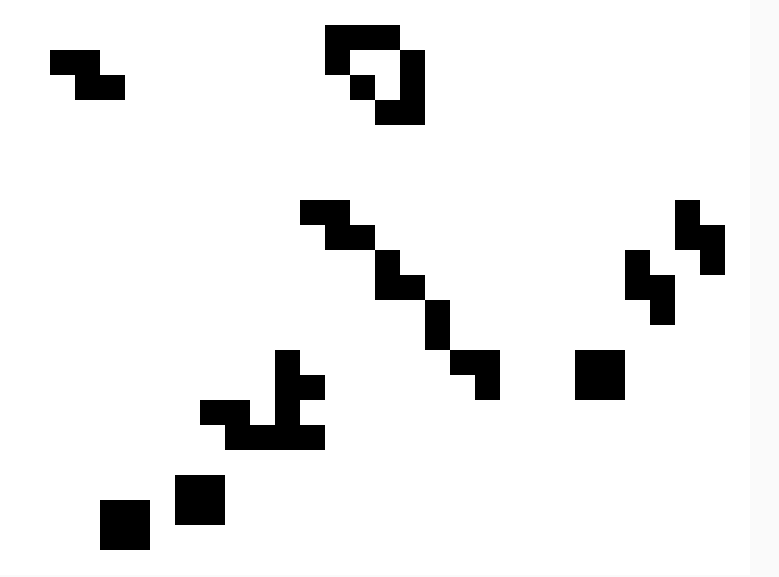
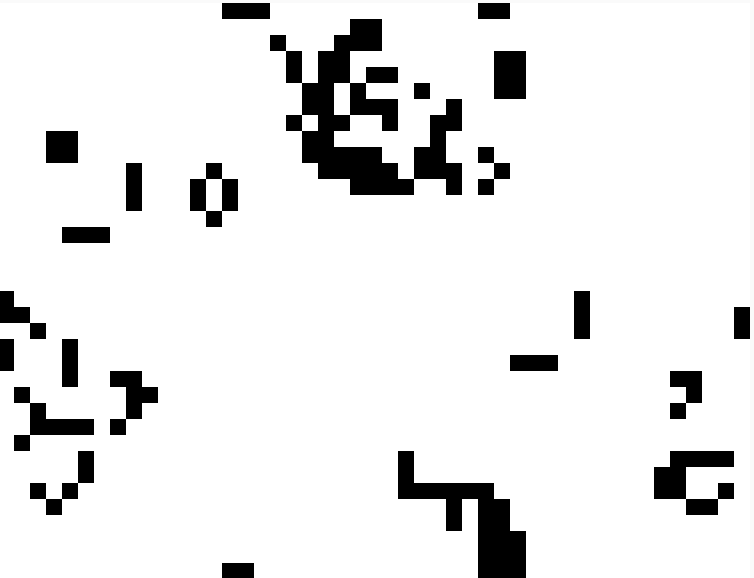
immigration

diff --git a/front/src/objects/cellular_automaton/Cells.js b/front/src/objects/cellular_automaton/Cells.js
@@ -1,0 +1,83 @@
+import LifeGameCell from "./lifeGameCell";
+import { random } from "../Utils";
+
+export default class Cells {
+  constructor(width, height, game) {
+    this.width = width;
+    this.height = height;
+    this.radius = 16;
+
+    this.frame = 10;
+    this.hz = 60 / this.frame;
+    this.frame_cpt = 0;
+
+    var cells = [];
+    for (var i = 0; i < height; i++) {
+      cells[i] = new Array(width);
+    }
+    switch (game) {
+      case 0:
+        for (var y = 0; y < height; y++) {
+          for (var x = 0; x < width; x++) {
+            var cell = new LifeGameCell(x, y, random(0, 1), 16);
+            cells[y][x] = cell;
+          }
+        }
+
+        break;
+      default:
+    }
+    this.cells = cells;
+  }
+
+  // var frame_cpt = 0;
+  // var e = this;
+
+  loop(ctx) {
+    if (this.frame_cpt == 0) {
+      ctx.fillStyle = "rgb(255, 255, 255)";
+      ctx.fillRect(0, 0, this.width, this.height);
+
+      for (var y = 0; y < this.height; y++) {
+        for (var x = 0; x < this.width; x++) {
+          // Rafraichir
+          this.cells[y][x].refresh();
+          // Dessiner
+          this.cells[y][x].draw(ctx);
+        }
+      }
+
+      // Trouver les voisins
+      var vx, vy;
+      for (y = 0; y < this.height; y++) {
+        for (x = 0; x < this.width; x++) {
+          for (var voisin_y = y - 1; voisin_y <= y + 1; voisin_y++) {
+            vy = voisin_y;
+            if (voisin_y == -1) vy = this.height - 1;
+            if (voisin_y == this.height) vy = 0;
+            for (var voisin_x = x - 1; voisin_x <= x + 1; voisin_x++) {
+              vx = voisin_x;
+              if (voisin_x == -1) vx = this.width - 1;
+              if (voisin_x == this.width) vx = 0;
+
+              if (x == vx && y == vy) continue;
+
+              this.cells[y][x].addNeighbor(this.cells[vy][vx]);
+            }
+          }
+        }
+      }
+
+      // Updater;
+      for (y = 0; y < this.height; y++) {
+        for (x = 0; x < this.width; x++) {
+          this.cells[y][x].changeState();
+        }
+      }
+    }
+    this.frame_cpt++;
+    if (this.frame_cpt >= this.hz) this.frame_cpt = 0;
+
+    this.pid = requestAnimationFrame(this.loop);
+  }
+}

diff --git a/front/src/components/home/ProjectList.vue b/front/src/components/home/ProjectList.vue
@@ -1,39 +1,48 @@
 <template>
   <div>
-    <v-row>
-      <v-col cols="12">
-        <v-row>
-          <v-col offset="1">
-            <h1 class="display-1">CNN</h1>
-          </v-col>
-        </v-row>
-        <v-row class="sm3 xs12" justify="center">
+    <v-container>
+      <v-row>
+        <h1 class="display-1">CNN</h1>
+      </v-row>
+      <v-row justify="start">
+        <v-col cols="auto">
           <ProjectCard
             title="Guess my number"
             image="guess_my_number.png"
             routeName="GuessMyNumber"
           />
+        </v-col>
+        <v-col cols="auto">
           <ProjectCard
             title="Guess my hiragana"
             image="guess_my_hiragana.png"
             routeName="GuessMyHiragana"
           />
-        </v-row>
-        <v-row>
-          <v-col offset="1">
-            <h1 class="display-1">Systèmes multi-agents</h1>
-          </v-col>
-        </v-row>
-        <v-row class="sm3 xs12" justify="center">
+        </v-col>
+      </v-row>
+      <v-row>
+        <h1 class="display-1">Systèmes multi-agents</h1>
+      </v-row>
+      <v-row justify="start">
+        <v-col cols="auto">
           <ProjectCard
             title="Balles rebondissantes"
             image="bouncing_balls.png"
             routeName="BouncingBalls"
           />
+        </v-col>
+        <v-col cols="auto">
           <ProjectCard title="Jeu de la vie de Conway" image="life_game.png" routeName="LifeGame" />
-        </v-row>
-      </v-col>
-    </v-row>
+        </v-col>
+        <v-col cols="auto">
+          <ProjectCard
+            title="Jeu de l'immigration"
+            image="migration_game.png"
+            routeName="MigrationGame"
+          />
+        </v-col>
+      </v-row>
+    </v-container>
   </div>
 </template>
 

diff --git a/front/src/objects/cellular_automaton/MigrationGameCell.js b/front/src/objects/cellular_automaton/MigrationGameCell.js
@@ -1,7 +1,17 @@
 import Point from "./Position.js";
 
-var WHITE = "rgb(255,255,255)";
-var BLACK = "rgb(0,0,0)";
+// var WHITE = "rgb(255,255,255)";
+// var BLACK = "rgb(0,0,0)";
+var COLORS = [
+  "rgb(255,255,255)",
+  "rgb(0,0,0)",
+  "rgb(255,0,0)",
+  "rgb(0,255,0)",
+  "rgb(0,0,255)",
+  "rgb(255,255,0)",
+  "rgb(0,255,255)"
+];
+var N_ETAT = 4;
 
 export default class LifeGameCell {
   constructor(x, y, state, radius) {
@@ -12,7 +22,8 @@ export default class LifeGameCell {
   }
   draw(ctx) {
     ctx.beginPath();
-    ctx.fillStyle = this.state ? BLACK : WHITE;
+    // ctx.fillStyle = this.state ? BLACK : WHITE;
+    ctx.fillStyle = COLORS[this.state];
     ctx.fillRect(
       this.position.x * this.radius,
       this.position.y * this.radius,
@@ -25,16 +36,13 @@ export default class LifeGameCell {
     this.nbVoisins = 0;
   }
   addNeighbor(other) {
-    if (other.state == 1) {
+    if (other.state == Math.floor((this.state + 1) % N_ETAT)) {
       this.nbVoisins++;
     }
   }
   changeState() {
-    if (this.state && (this.nbVoisins < 2 || this.nbVoisins > 3)) {
-      this.state = 0;
-    }
-    if (!this.state && this.nbVoisins == 3) {
-      this.state = 1;
+    if (this.nbVoisins >= 3) {
+      this.state = Math.floor((this.state + 1) % N_ETAT);
     }
   }
   display() {

diff --git a/front/src/views/MigrationGame.vue b/front/src/views/MigrationGame.vue
@@ -23,7 +23,7 @@
   </div>
 </template>
 <script>
-import Cell from "@/objects/cellular_automaton/lifeGameCell";
+import Cell from "@/objects/cellular_automaton/MigrationGameCell";
 import { random } from "@/objects/Utils";
 // import Cells from "@/objects/cellular_automaton/Cells";
 
@@ -56,6 +56,7 @@ export default {
       var frame_cpt = 0;
       // var pid = this.pid;
       var e = this;
+      var nEtats = 4;
 
       function loop() {
         if (frame_cpt == 0) {
@@ -64,7 +65,7 @@ export default {
           if (!init) {
             for (var y = 0; y < height; y++) {
               for (var x = 0; x < width; x++) {
-                var cell = new Cell(x, y, random(0, 1), radius);
+                var cell = new Cell(x, y, random(0, nEtats - 1), radius);
                 cells[y][x] = cell;
               }
             }

diff --git a/front/src/router/index.js b/front/src/router/index.js
@@ -5,6 +5,7 @@ import GuessMyHiragana from "../views/GuessMyHiragana.vue";
 import GuessMyNumber from "../views/GuessMyNumber.vue";
 import BouncingBalls from "../views/BouncingBalls.vue";
 import LifeGame from "../views/LifeGame.vue";
+import MigrationGame from "../views/MigrationGame.vue";
 
 Vue.use(VueRouter);
 
@@ -33,6 +34,11 @@ const routes = [
     path: "/lifeGame",
     name: "LifeGame",
     component: LifeGame
+  },
+  {
+    path: "/migrationGame",
+    name: "MigrationGame",
+    component: MigrationGame
   },
 
   {

diff --git a/front/src/components/home/ProjectCard.vue b/front/src/components/home/ProjectCard.vue
@@ -1,7 +1,7 @@
 <template>
   <div>
     <div @click="$router.push({name: routeName})" :style="{cursor: 'pointer'}">
-      <v-card width="300" class="ma-3">
+      <v-card max-width="400" class="ma-3">
         <v-card-title primary-title>{{title}}</v-card-title>
         <v-img :src="pathImage + image" contain></v-img>
       </v-card>

diff --git a/front/src/config.js b/front/src/config.js
@@ -1,4 +1,4 @@
 export default {
-    apiUrl: "http://aiguess.ml/api",
-    // apiUrl: "http://localhost:5000/api"
-}
+  apiUrl: "https://aiguess.ml/api"
+  // apiUrl: "http://localhost:5000/api"
+};
